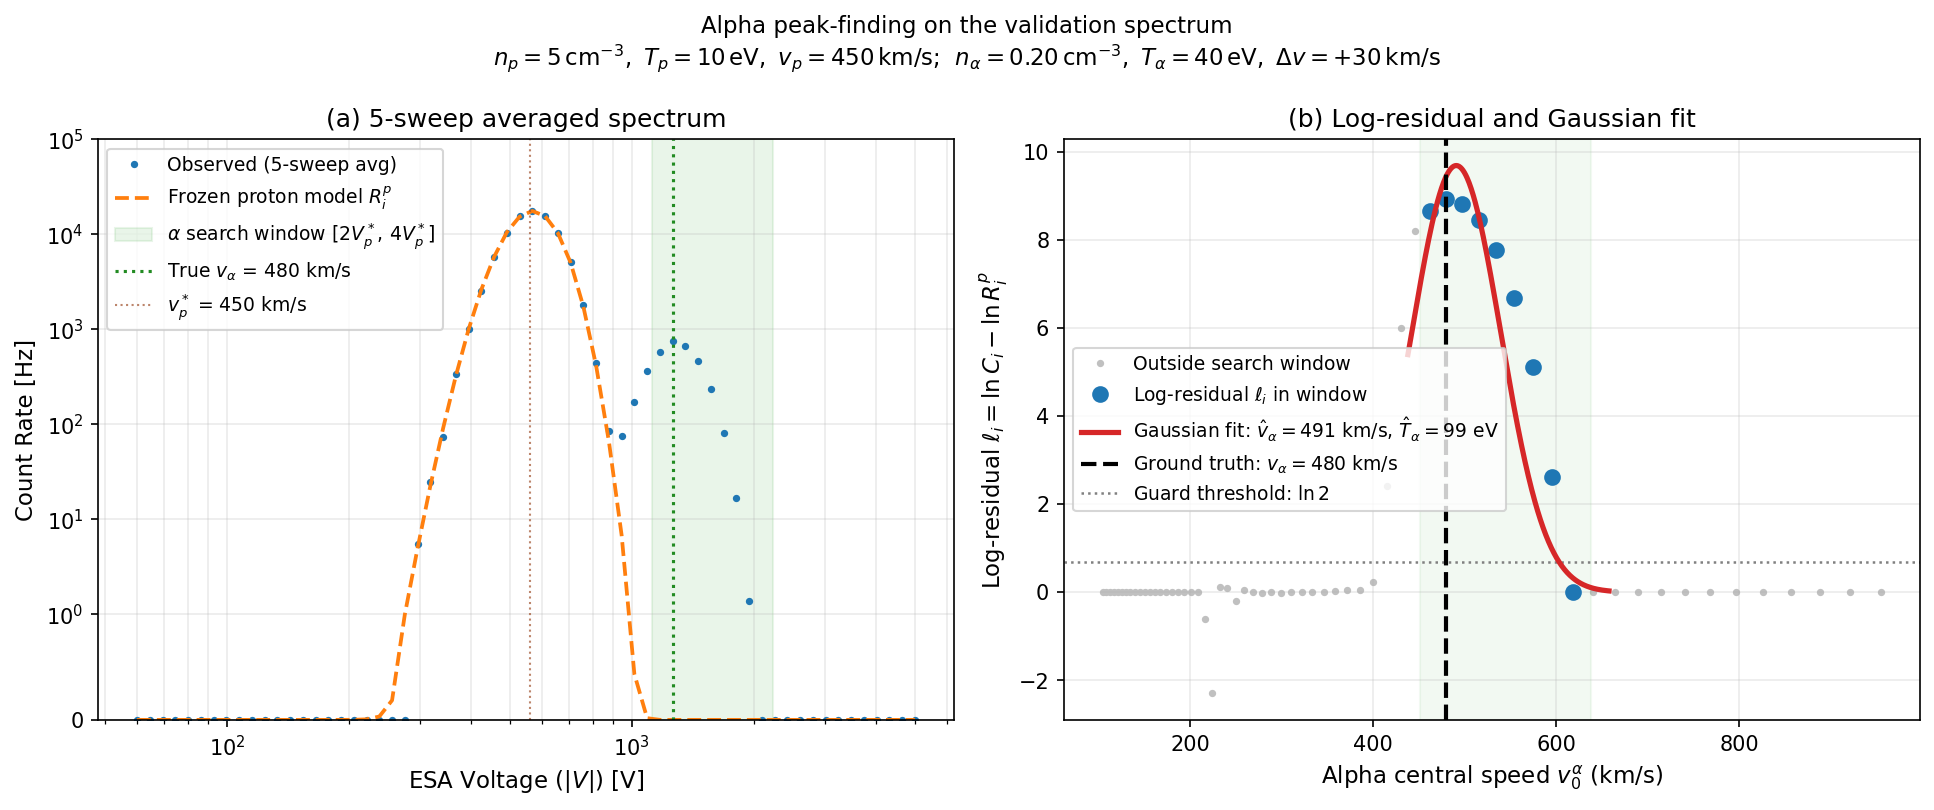
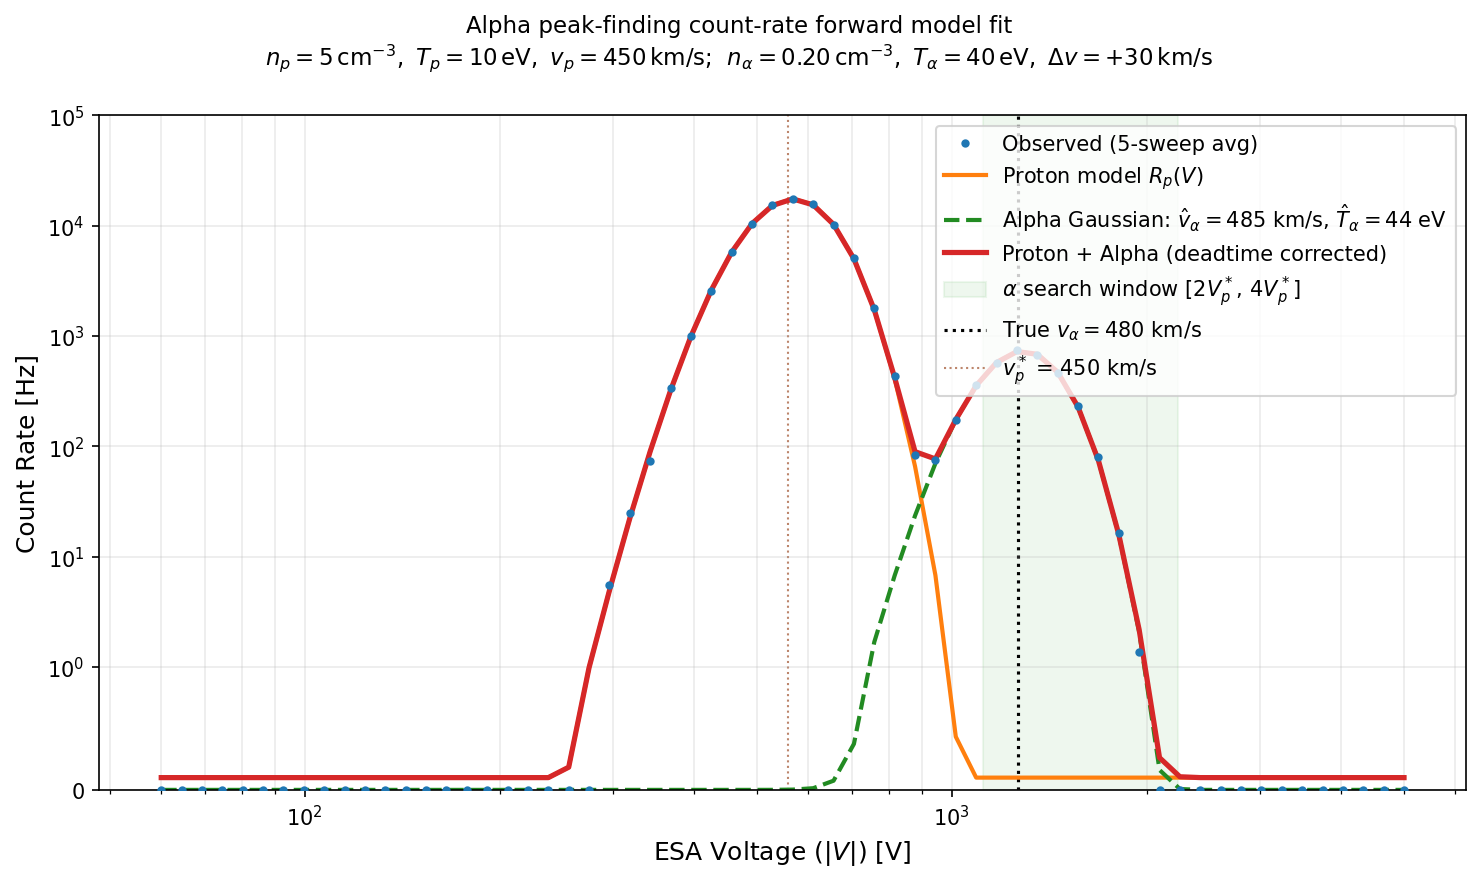
Switch alpha peak-finding to count-rate forward model fit
Problem: Log-residual fitting at the alpha window edge gave inaccurate
temperature guesses (98.9 eV vs truth 40 eV). The log transformation
amplifies noise in low-count regions.

Solution: Fit directly to count rates using forward model:
  count_obs = deadtime_corrected(proton_obs + A·exp(-(v-mu)²/(2σ²)))

This uses Poisson statistics directly, constrains the peak location to
the alpha window [alpha_min_speed, alpha_max_speed], and fits over all
62 bins for better numerical conditioning.

Results (synthetic spectrum validation):
- Speed: 484.9 km/s (error 4.9 km/s) vs truth 480 km/s
- T_alpha: 43.6 eV (error 3.6 eV) vs truth 40 eV
(Previous log-residual approach: 98.9 eV, 2.5× truth)

Figure shows three overlaid curves:
1. Frozen proton model
2. Fitted alpha Gaussian component
3. Combined (proton + alpha) with deadtime correction

diff --git a/docs/swapi/figure_src/plot_alpha_peak_finding.py b/docs/swapi/figure_src/plot_alpha_peak_finding.py
@@ -2,15 +2,15 @@
 """
 Plot alpha peak-finding walkthrough on a synthetic SWAPI alpha spectrum.
 
-Two-panel figure illustrating the _alpha_initial_guess steps:
+Single-panel figure illustrating the count-rate forward model fit:
 
-  Panel (a): 5-sweep averaged observed count rate vs the frozen proton model.
-             The alpha voltage search window [2V_p*, 4V_p*] is shaded; the
-             true alpha peak voltage is marked.
+  Observed count rate vs ESA voltage (scatter) with overlaid models:
+  - Frozen proton model (solid line)
+  - Fitted alpha Gaussian component (dashed line)
+  - Combined (proton + alpha) with deadtime correction (thick solid)
 
-  Panel (b): Log-space residual ℓ_i = ln(max(C_i, 0.1)) − ln(max(R_i^p, 0.1))
-             inside the alpha window.  Gaussian fit overlaid; initial-guess peak
-             vs ground-truth bulk speed both marked.
+The alpha search window [2V_p*, 4V_p*] is shaded; true and fitted alpha
+peak voltages are marked.
 
 Spectrum parameters:
   proton  n=5 cm⁻³, T=10 eV, v_p=[450, 0, 0] km/s
@@ -145,7 +145,7 @@ def main():
     proton_obs_avg = apply_deadtime_correction_array(proton_true_avg)
 
     # ------------------------------------------------------------------
-    # Call the production peak-finder — no parallel reimplementation here.
+    # Call the production peak-finder.
     # ------------------------------------------------------------------
     v_p_speed = float(np.linalg.norm(_V_P_RTN))
     peak_fit = _alpha_peak_fit(
@@ -153,11 +153,7 @@ def main():
     )
     assert peak_fit is not None, "No alpha signal detected in synthetic spectrum"
 
-    alpha_speeds = esa_voltage_to_alpha_speed(voltage_per_sweep)
-    alpha_min_speed = float(esa_voltage_to_alpha_speed(peak_fit.alpha_min_voltage))
-    alpha_max_speed = float(esa_voltage_to_alpha_speed(peak_fit.alpha_max_voltage))
     proton_peak_voltage = peak_fit.alpha_min_voltage / 2.0
-
     true_alpha_speed = float(np.linalg.norm(_V_A_RTN))
     v_a_peak_voltage = (
         ALPHA_PARTICLE_MASS_KG
@@ -174,127 +170,111 @@ def main():
         f"               T_alpha = {peak_fit.T_alpha:.1f} eV  (truth = {_T_A:.1f} eV)"
     )
 
-    # Sort by ascending voltage for clean line plots (panel a).
+    # Compute the three model curves for visualization.
     abs_voltage = np.abs(voltage_per_sweep)
     sort_idx = np.argsort(abs_voltage)
     abs_v_s = abs_voltage[sort_idx]
     count_avg_s = count_avg[sort_idx]
-    proton_obs_avg_s = proton_obs_avg[sort_idx]
+    proton_obs_avg_s = peak_fit.proton_obs_avg[sort_idx]
+
+    # Alpha Gaussian component and combined model (with deadtime).
+    alpha_model = peak_fit.gauss_A * np.exp(
+        -((peak_fit.alpha_speeds - peak_fit.bulk_speed) ** 2)
+        / (2 * peak_fit.sigma_v**2)
+    )
+    combined_no_dt = peak_fit.proton_obs_avg + alpha_model
+    combined_with_dt = apply_deadtime_correction_array(combined_no_dt)
+
+    alpha_model_s = alpha_model[sort_idx]
+    combined_with_dt_s = combined_with_dt[sort_idx]
 
     # ------------------------------------------------------------------
     # Figure
     # ------------------------------------------------------------------
-    fig, (ax1, ax2) = plt.subplots(1, 2, figsize=(13, 5.5))
+    fig, ax = plt.subplots(1, 1, figsize=(10, 6))
     fig.suptitle(
-        "Alpha peak-finding on the validation spectrum\n"
+        "Alpha peak-finding count-rate forward model fit\n"
         r"$n_p=5\,\mathrm{cm}^{-3},\ T_p=10\,\mathrm{eV},\ v_p=450\,\mathrm{km/s}$;  "
         r"$n_\alpha=0.20\,\mathrm{cm}^{-3},\ T_\alpha=40\,\mathrm{eV},\ \Delta v=+30\,\mathrm{km/s}$",
         fontsize=11,
     )
 
-    # --- Panel (a): spectrum + search window ---
-    ax1.plot(
+    # Observed data.
+    ax.plot(
         abs_v_s,
         count_avg_s,
         ".",
         color="tab:blue",
-        markersize=5,
+        markersize=6,
         label="Observed (5-sweep avg)",
+        zorder=3,
     )
-    ax1.plot(
+
+    # Frozen proton model.
+    ax.plot(
         abs_v_s,
         proton_obs_avg_s,
         color="tab:orange",
-        lw=1.8,
-        ls="--",
-        label=r"Frozen proton model $R_i^p$",
+        lw=2.0,
+        label=r"Proton model $R_p(V)$",
+        zorder=2,
     )
-    ax1.set_xscale("log")
-    ax1.set_yscale("symlog", linthresh=1)
-    ax1.axvspan(
+
+    # Alpha Gaussian component.
+    ax.plot(
+        abs_v_s,
+        alpha_model_s,
+        color="forestgreen",
+        lw=2.0,
+        ls="--",
+        label=rf"Alpha Gaussian: $\hat{{v}}_\alpha={peak_fit.bulk_speed:.0f}$ km/s, "
+        rf"$\hat{{T}}_\alpha={peak_fit.T_alpha:.0f}$ eV",
+        zorder=2,
+    )
+
+    # Combined with deadtime correction.
+    ax.plot(
+        abs_v_s,
+        combined_with_dt_s,
+        color="tab:red",
+        lw=2.5,
+        label=r"Proton + Alpha (deadtime corrected)",
+        zorder=2,
+    )
+
+    ax.set_xscale("log")
+    ax.set_yscale("symlog", linthresh=1)
+    ax.axvspan(
         peak_fit.alpha_min_voltage,
         peak_fit.alpha_max_voltage,
-        alpha=0.10,
+        alpha=0.08,
         color="tab:green",
         label=r"$\alpha$ search window $[2V_p^*,\,4V_p^*]$",
+        zorder=1,
     )
-    ax1.axvline(
+    ax.axvline(
         v_a_peak_voltage,
-        color="forestgreen",
+        color="black",
         lw=1.5,
         ls=":",
-        label=rf"True $v_\alpha$ = {true_alpha_speed:.0f} km/s",
+        label=rf"True $v_\alpha = {true_alpha_speed:.0f}$ km/s",
+        zorder=1.5,
     )
-    ax1.axvline(
+    ax.axvline(
         proton_peak_voltage,
         color="sienna",
         lw=1.0,
         ls=":",
         alpha=0.7,
         label=rf"$v_p^*$ = {v_p_speed:.0f} km/s",
+        zorder=1.5,
     )
-    ax1.set_xlabel("ESA Voltage ($|V|$) [V]", fontsize=11)
-    ax1.set_ylabel("Count Rate [Hz]", fontsize=11)
-    ax1.set_title("(a) 5-sweep averaged spectrum")
-    ax1.set_ylim(0, 1e5)
-    ax1.legend(fontsize=9)
-    ax1.grid(True, which="both", alpha=0.25)
 
-    # --- Panel (b): log-residual + Gaussian fit ---
-    ax2.plot(
-        peak_fit.fit_speeds[~peak_fit.alpha_mask],
-        peak_fit.fit_log_res[~peak_fit.alpha_mask],
-        ".",
-        color="silver",
-        markersize=5,
-        label="Outside search window",
-        zorder=1,
-    )
-    ax2.plot(
-        peak_fit.fit_speeds[peak_fit.alpha_mask],
-        peak_fit.fit_log_res[peak_fit.alpha_mask],
-        "o",
-        color="tab:blue",
-        markersize=7,
-        label=r"Log-residual $\ell_i$ in window",
-        zorder=3,
-    )
-    v_dense = np.linspace(alpha_min_speed * 0.97, alpha_max_speed * 1.03, 300)
-    gauss_curve = peak_fit.gauss_A * np.exp(
-        -((v_dense - peak_fit.bulk_speed) ** 2) / (2 * peak_fit.sigma_v**2)
-    )
-    ax2.plot(
-        v_dense,
-        gauss_curve,
-        color="tab:red",
-        lw=2.5,
-        label=(
-            rf"Gaussian fit: $\hat{{v}}_\alpha = {peak_fit.bulk_speed:.0f}$ km/s, "
-            rf"$\hat{{T}}_\alpha = {peak_fit.T_alpha:.0f}$ eV"
-        ),
-        zorder=4,
-    )
-    ax2.axvline(
-        true_alpha_speed,
-        color="black",
-        lw=2.0,
-        ls="--",
-        label=rf"Ground truth: $v_\alpha = {true_alpha_speed:.0f}$ km/s",
-        zorder=5,
-    )
-    ax2.axhline(
-        np.log(2.0),
-        color="gray",
-        lw=1.2,
-        ls=":",
-        label=r"Guard threshold: $\ln 2$",
-    )
-    ax2.axvspan(alpha_min_speed, alpha_max_speed, alpha=0.06, color="tab:green")
-    ax2.set_xlabel(r"Alpha central speed $v_0^\alpha$ (km/s)", fontsize=11)
-    ax2.set_ylabel(r"Log-residual $\ell_i = \ln C_i - \ln R_i^p$", fontsize=11)
-    ax2.set_title("(b) Log-residual and Gaussian fit")
-    ax2.legend(fontsize=9)
-    ax2.grid(True, which="both", alpha=0.25)
+    ax.set_xlabel("ESA Voltage ($|V|$) [V]", fontsize=12)
+    ax.set_ylabel("Count Rate [Hz]", fontsize=12)
+    ax.set_ylim(0, 1e5)
+    ax.legend(fontsize=10, loc="upper right")
+    ax.grid(True, which="both", alpha=0.25)
 
     fig.tight_layout()
     _OUTPUT_DIR.mkdir(parents=True, exist_ok=True)

diff --git a/imap_l3_processing/swapi/l3a/science/calculate_alpha_solar_wind_moments.py b/imap_l3_processing/swapi/l3a/science/calculate_alpha_solar_wind_moments.py
@@ -278,7 +278,7 @@ def fit_solar_wind_alpha_moments(
 
 
 class _AlphaPeakFit(NamedTuple):
-    """Intermediate results of the log-residual Gaussian fit, used by both the
+    """Intermediate results of the count-rate Gaussian fit, used by both the
     initial-guess logic and the diagnostic figure script."""
 
     bulk_speed: float
@@ -286,12 +286,10 @@ class _AlphaPeakFit(NamedTuple):
     gauss_A: float
     T_alpha: float
     alpha_mask: ndarray
-    log_residual: ndarray
+    alpha_speeds: ndarray
+    proton_obs_avg: ndarray
     alpha_min_voltage: float
     alpha_max_voltage: float
-    fit_speeds: ndarray
-    fit_log_res: ndarray
-    fit_sigma_ell: ndarray
 
 
 def _alpha_peak_fit(
@@ -335,30 +333,41 @@ def _alpha_peak_fit(
     alpha_min_speed = float(esa_voltage_to_alpha_speed(alpha_min_voltage))
     alpha_max_speed = float(esa_voltage_to_alpha_speed(alpha_max_voltage))
 
-    # Fit to all bins (not just alpha window) with peak constrained to alpha range.
-    # Using more data improves sigma conditioning when the peak is near the window edge.
-    fit_speeds = alpha_speeds
-    fit_log_res = log_residual
-    fit_count_avg = count_avg
-    peak_idx = int(np.nanargmax(log_residual))
-    fit_sigma_ell = 1.0 / np.sqrt(
-        np.maximum(fit_count_avg, 0.1) * n_sweeps * SWAPI_LIVETIME_S
-    )
+    # Fit count rates directly: count_obs = deadtime_corrected(proton_true + alpha_gaussian).
+    # Find initial speed guess from peak in count space, within alpha window.
+    peak_idx_global = int(np.nanargmax(count_avg))
+    peak_speed_global = alpha_speeds[peak_idx_global]
+    peak_idx_in_window = int(np.nanargmax(count_avg[alpha_mask]))
+    alpha_indices = np.where(alpha_mask)[0]
+    peak_idx_in_window = alpha_indices[peak_idx_in_window]
+    peak_speed = alpha_speeds[peak_idx_in_window]
 
-    gauss_A = float(fit_log_res[peak_idx])
+    # Forward model: observed count = deadtime(proton_true + alpha_gaussian).
+    # Capture proton_obs_avg and alpha_speeds in closure for curve_fit.
+    def count_rate_forward_model(bin_indices, A, mu, sigma):
+        idx = bin_indices.astype(int)
+        alpha_contrib = A * np.exp(-((alpha_speeds[idx] - mu) ** 2) / (2 * sigma**2))
+        combined = proton_obs_clipped[idx] + alpha_contrib
+        return apply_deadtime_correction_array(combined)
+
+    bin_indices = np.arange(len(voltage_per_sweep))
+    fit_sigma_counts = np.sqrt(np.maximum(count_avg, 1.0))
+
     try:
         (gauss_A, bulk_speed, sigma_v), _ = scipy.optimize.curve_fit(
-            lambda v, A, mu, sigma: A * np.exp(-((v - mu) ** 2) / (2 * sigma**2)),
-            fit_speeds,
-            fit_log_res,
-            p0=[gauss_A, alpha_speeds[peak_idx], 50.0],
+            count_rate_forward_model,
+            bin_indices,
+            count_avg,
+            p0=[count_avg[peak_idx_in_window] * 0.1, peak_speed, 50.0],
             bounds=([0, alpha_min_speed, 0], [np.inf, alpha_max_speed, np.inf]),
-            sigma=fit_sigma_ell,
+            sigma=fit_sigma_counts,
             absolute_sigma=True,
+            maxfev=2000,
         )
     except RuntimeError:
-        bulk_speed = float(alpha_speeds[peak_idx])
+        bulk_speed = peak_speed
         sigma_v = 50.0
+        gauss_A = count_avg[peak_idx_in_window] * 0.1
 
     sigma_floor_v = float(
         np.sqrt(
@@ -381,12 +390,10 @@ def _alpha_peak_fit(
         gauss_A=float(gauss_A),
         T_alpha=T_alpha,
         alpha_mask=alpha_mask,
-        log_residual=log_residual,
+        alpha_speeds=alpha_speeds,
+        proton_obs_avg=proton_obs_clipped,
         alpha_min_voltage=float(alpha_min_voltage),
         alpha_max_voltage=float(alpha_max_voltage),
-        fit_speeds=fit_speeds,
-        fit_log_res=fit_log_res,
-        fit_sigma_ell=fit_sigma_ell,
     )
 
 
